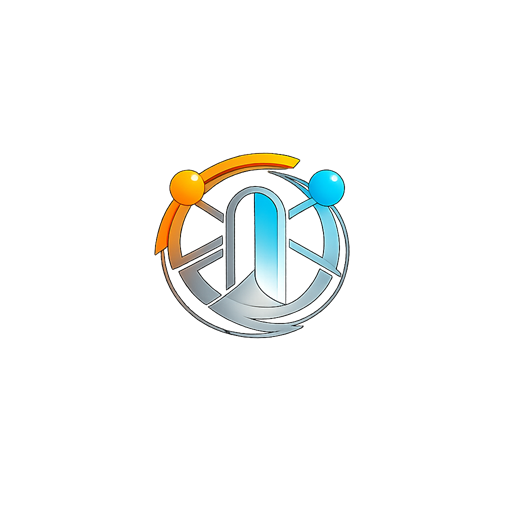
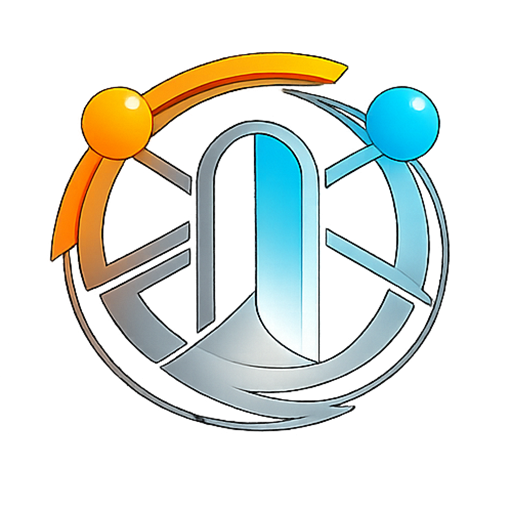
...

diff --git a/layouts/default.vue b/layouts/default.vue
@@ -6,13 +6,12 @@
             <div class="flex items-center gap-3">
                 <UButton icon="i-heroicons-bars-3" color="neutral" variant="ghost" class="md:hidden"
                     @click="mobileOpen = true" />
-                <NuxtLink to="/" class="flex items-center gap-2">
+                <NuxtLink to="/" class="flex items-center">
                     <img
-                        src="/brand/limbus-icon.png"
-                        alt=""
-                        class="size-9 rounded-md object-cover"
+                        src="/brand/limbus-logo-header.png"
+                        alt="Limbus"
+                        class="h-10 w-auto object-contain"
                     >
-                    <span class="font-bold text-xl">Limbus</span>
                 </NuxtLink>
             </div>
             <UDropdownMenu :items="userMenu" :content="{ align: 'end' }">
@@ -89,7 +88,7 @@
                 <div class="p-4 space-y-6">
                     <div class="flex items-center gap-3">
                         <img
-                            src="/brand/limbus-icon.png"
+                            src="/brand/limbus-icon-app.png"
                             alt=""
                             class="size-10 rounded-md object-cover"
                         >

diff --git a/components/LoginScreen.vue b/components/LoginScreen.vue
@@ -58,7 +58,7 @@ onUnmounted(() => {
             <template #header>
                 <div class="space-y-4">
                     <img
-                        src="/brand/limbus-logo.png"
+                        src="/brand/limbus-logo-header.png"
                         alt="Limbus"
                         class="mx-auto h-28 w-full max-w-xs object-contain"
                     >

diff --git a/pwa-assets.config.ts b/pwa-assets.config.ts
@@ -8,5 +8,5 @@ export default defineConfig({
         preset: '2023',
     },
     preset,
-    images: ['public/brand/limbus-icon.png'],
+    images: ['public/brand/limbus-icon-app.png'],
 })